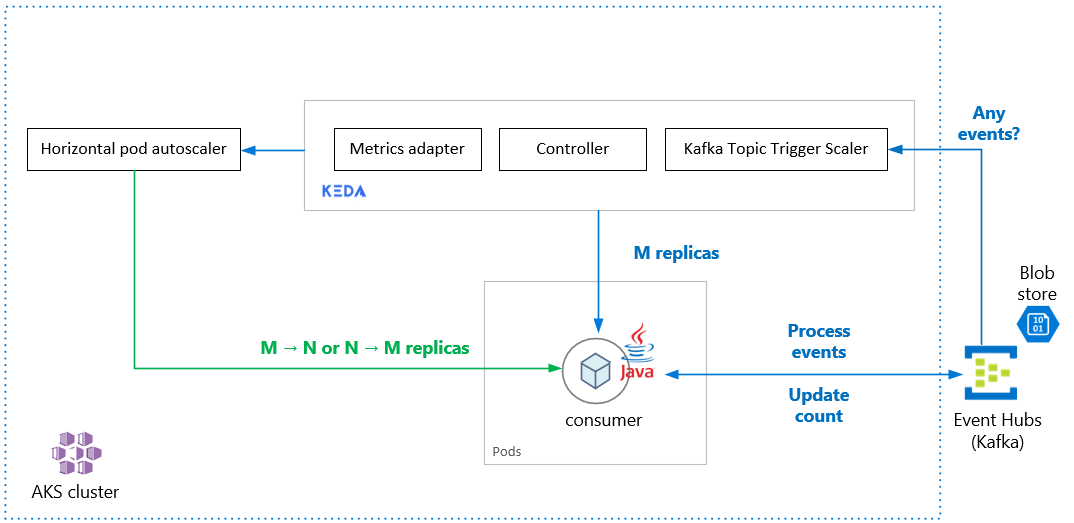
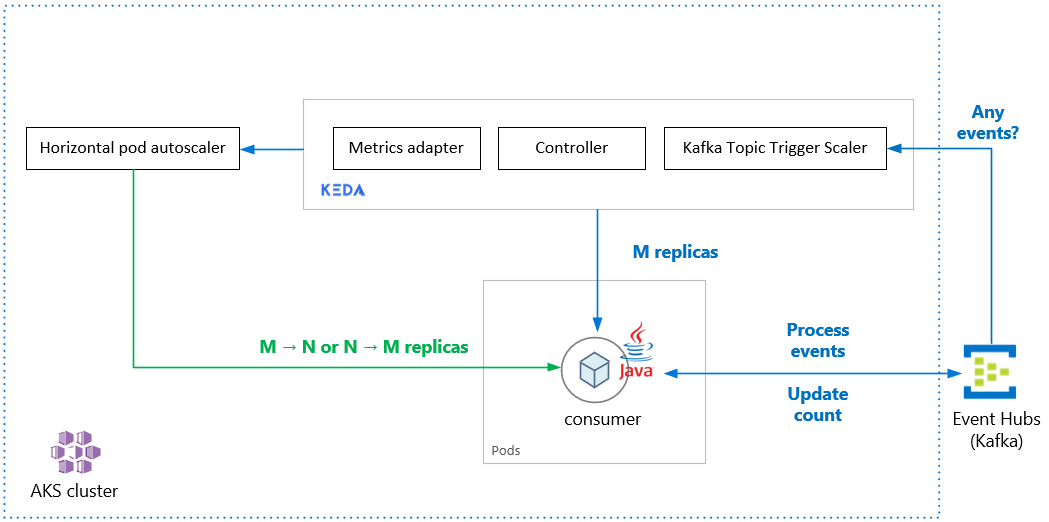
Modified README.md image and added Key Concepts section

diff --git a/README.md b/README.md
@@ -6,9 +6,15 @@ This is a quickstart for **Kafka trigger scaler** using **Azure Event Hubs with 
 
 [KEDA](https://keda.sh) is a Kubernetes-based Event Driven Autoscaler. KEDA determines how any container within Kubernetes should be scaled based on the number of events that need to be processed. KEDA, which has a variety of out-of-the-box scalers, supports multiple types of workloads, supports Azure Functions, and is vendor-agnostic.
 
-This sample uses terraform to deploy the required resources.
-
 ![Architecture image](./docs/architecture-image.png)
+
+The application that needs to be scaled out automatically based on incoming message count is deployed on the AKS cluster. A Kafka scaler is used in this sample to detect if deployment should be activated or deactivated and to feed custom metrics for a specific event source. The event source in this example is an Azure Event Hub.
+
+When the number of messages in the Azure Event Hub exceed a threshold (set to 50 in the sample by default), KEDA triggers the pods to scale out thus increasing the number of messages processed by the application. Automatic scale down of the pods occurs when the number of messages in the event source falls below the threshold value.
+
+This pattern can be successfully implemented in Microservices architectures which are event driven.
+
+This sample uses terraform to deploy the required resources.
 
 ## Repository structure
 
